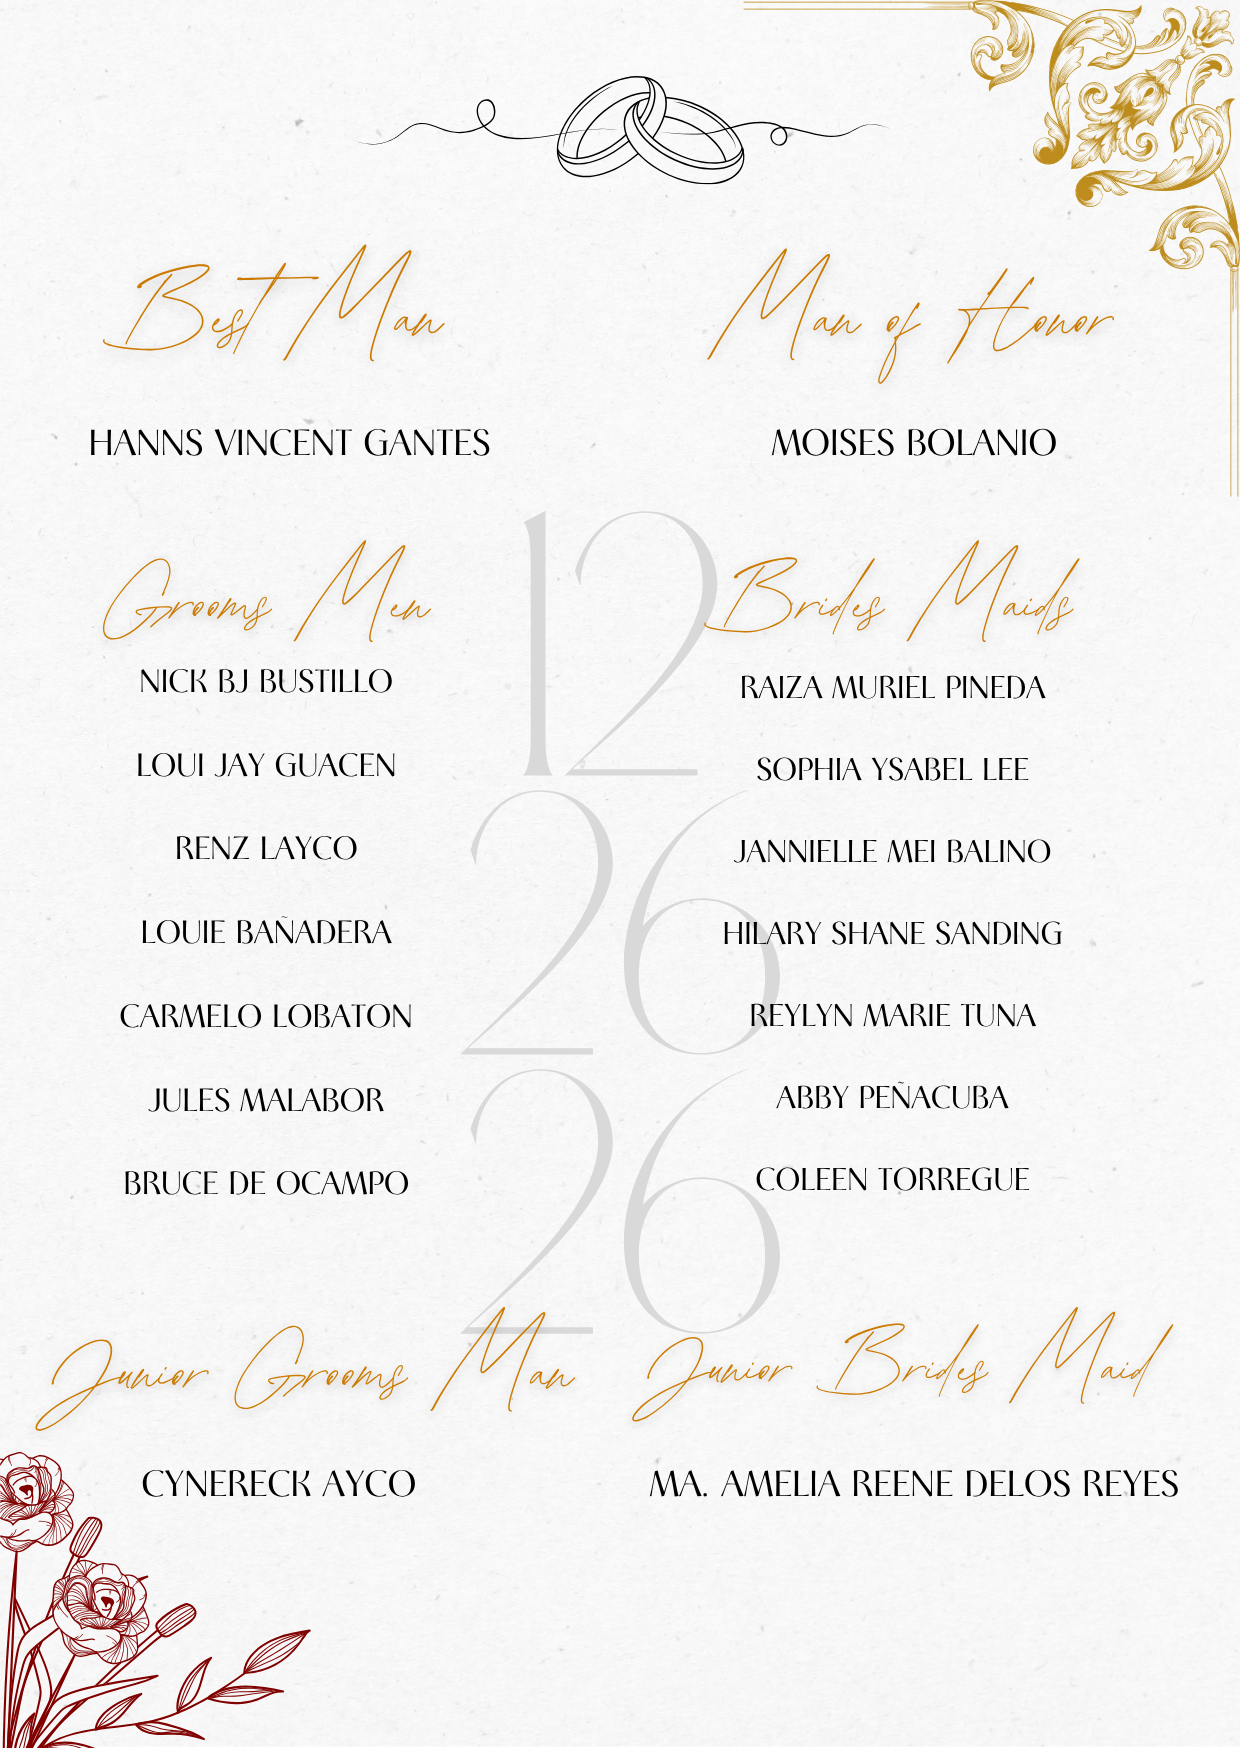
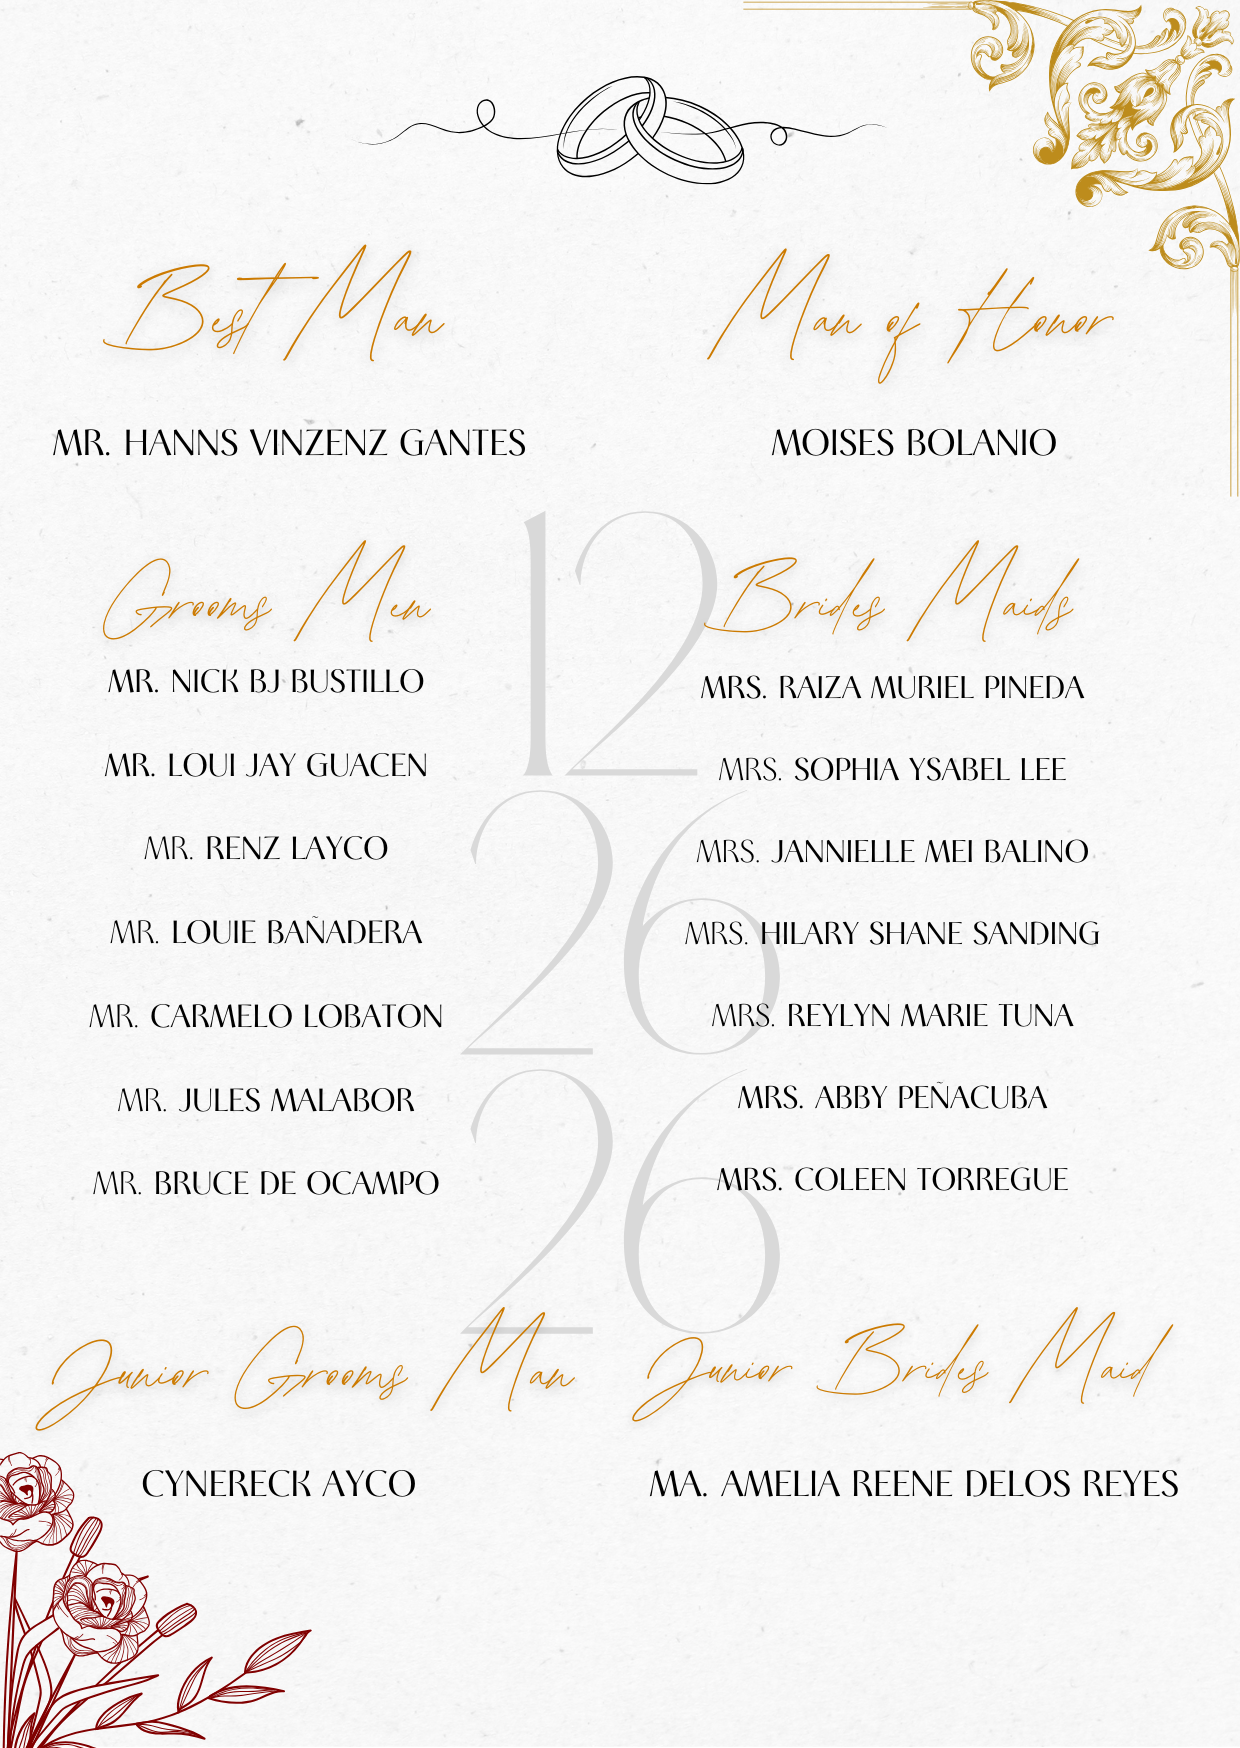
change version

diff --git a/index.html b/index.html
@@ -403,7 +403,17 @@
         display: grid;
         place-items: center;
         z-index: 5;
-        transition: opacity 1.1s ease, transform 1.2s ease;
+        cursor: pointer;
+        transition: opacity 1.1s ease, transform 1.2s ease, box-shadow 0.4s ease;
+      }
+
+      .seal:hover {
+        box-shadow:
+          0 20px 40px rgba(15, 31, 23, 0.35),
+          inset 0 3px 10px rgba(255,255,255,0.7),
+          inset 0 -12px 18px rgba(92, 53, 10, 0.28),
+          0 0 0 3px rgba(212,175,55,1),
+          0 0 25px rgba(212,175,55,0.4);
       }
 
       .seal::before {
@@ -445,6 +455,21 @@
         text-align: center;
         line-height: 1.2;
         text-shadow: 0 0 12px rgba(212,175,55,0.3), 0 0 18px rgba(145,97,16,0.28), 0 1px 0 rgba(93, 67, 17, 0.8);
+        cursor: pointer;
+        transition: transform 0.3s ease;
+      }
+
+      .seal:hover .seal-text {
+        transform: scale(1.08);
+      }
+
+      @keyframes sealPulse {
+        0%, 100% { box-shadow: 0 16px 30px rgba(15, 31, 23, 0.24), inset 0 3px 10px rgba(255,255,255,0.7), inset 0 -12px 18px rgba(92, 53, 10, 0.28), 0 0 0 2px rgba(212,175,55,0.84); }
+        50% { box-shadow: 0 16px 30px rgba(15, 31, 23, 0.24), inset 0 3px 10px rgba(255,255,255,0.7), inset 0 -12px 18px rgba(92, 53, 10, 0.28), 0 0 0 4px rgba(212,175,55,1), 0 0 30px rgba(212,175,55,0.5); }
+      }
+
+      .envelope-stage:not(.opened) .seal {
+        animation: sealPulse 2.5s ease-in-out infinite;
       }
 
       .hero-monogram {
@@ -476,30 +501,41 @@
       }
 
       .envelope-prelude.opening .envelope-flap {
-        transform: rotateX(180deg) translateY(-18px);
+        transform: rotateX(180deg) translateY(-28px);
         filter: drop-shadow(0 12px 18px rgba(99, 74, 52, 0.12));
       }
 
       .envelope-prelude.opening .seal {
         opacity: 0;
-        transform: translate(-50%, -50%) scale(0.8);
+        transform: translate(-50%, -50%) scale(0.6);
+        transition: opacity 0.6s ease, transform 0.8s cubic-bezier(0.22, 1, 0.36, 1);
       }
 
       .envelope-prelude.opening .envelope-letter {
-        transform: translateX(-50%) translateY(-72px) scale(1.03);
+        transform: translateX(-50%) translateY(-100px) scale(1.05);
+        transition: transform 1.4s cubic-bezier(0.22, 1, 0.36, 1), opacity 0.8s ease;
       }
 
       .envelope-prelude.opening .letter-monogram {
         opacity: 1;
         visibility: visible;
+        transition: opacity 1.2s ease 0.3s, visibility 1.2s ease 0.3s;
       }
 
       .envelope-prelude.opening .envelope-backdrop {
-        transform: perspective(1200px) rotateX(8deg) translateY(-8px);
+        transform: perspective(1200px) rotateX(8deg) translateY(-12px);
+        transition: transform 1.2s cubic-bezier(0.22, 1, 0.36, 1);
       }
 
       .envelope-prelude.opening .envelope-floral {
-        opacity: 0.6;
+        opacity: 0.4;
+        transition: opacity 1s ease;
+      }
+
+      .envelope-prelude.opening .envelope-stage {
+        animation: none;
+        transform: scale(1.02);
+        transition: transform 0.8s ease;
       }
 
       .invitation-shell.is-visible {
@@ -1484,16 +1520,17 @@
         document.body.scrollTop = 0;
 
         envelopePrelude.classList.add("opening");
+        envelopeStage.classList.add("opened");
         document.body.classList.add("invitation-open");
 
         setTimeout(() => {
           invitationShell.classList.add("is-visible");
-        }, 500);
+        }, 600);
 
         setTimeout(() => {
           envelopePrelude.classList.add("hidden");
           envelopePrelude.classList.remove("opening");
-        }, 1800);
+        }, 2000);
       }
 
       if (envelopeStage) {
@@ -1504,6 +1541,24 @@
             openInvitationEnvelope();
           }
         });
+      }
+
+      const sealElement = document.querySelector(".seal");
+      if (sealElement) {
+        sealElement.addEventListener("click", function (event) {
+          event.stopPropagation();
+          openInvitationEnvelope();
+        });
+        sealElement.addEventListener("keydown", function (event) {
+          if (event.key === "Enter" || event.key === " ") {
+            event.preventDefault();
+            event.stopPropagation();
+            openInvitationEnvelope();
+          }
+        });
+        sealElement.setAttribute("role", "button");
+        sealElement.setAttribute("tabindex", "0");
+        sealElement.setAttribute("aria-label", "Open wedding invitation");
       }
 
       window.addEventListener("load", function () {
